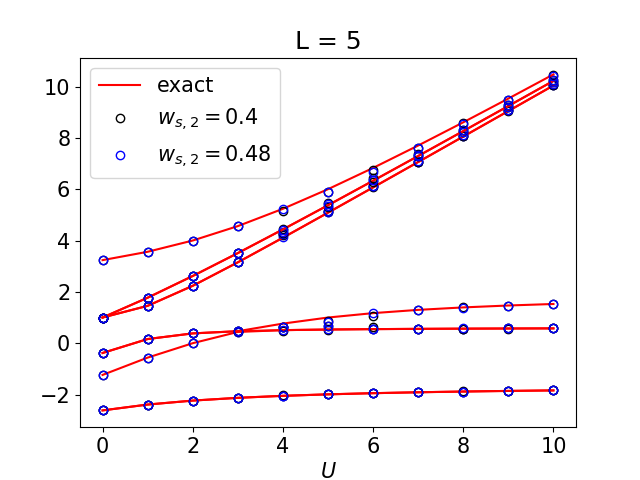
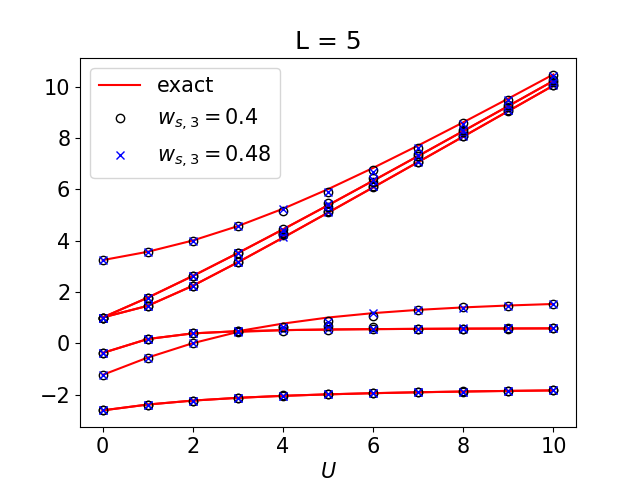
new figure

diff --git a/Figures/L=7/grafs2.py b/Figures/L=7/grafs2.py
@@ -58,12 +58,12 @@ list3[5] = list2[5]
 FI1 =[0,1,2,3,4,5, 6, 7, 8, 9,10]
 FI1 = np.array(FI1)
 
-print(list3)
 eigenor= np.zeros((11,nf))
 eigennumor = np.zeros((11,nf))
 eigennumor2 = np.zeros((11,nf))
 gap = np.zeros((11,nf-1))
 gapnum = np.zeros((11,nf-1))
+gapnum2 = np.zeros((11,nf-1))
 
 
 for u in range(11):
@@ -84,9 +84,11 @@ for u in range(11):
    for j in range(5):
       gap[u,j] = eigenor[u,j+1]-eigenor[u,1]
       gapnum[u,j] = eigennumor[u][j+1]-eigennumor[u][1]
+      gapnum2[u,j] = eigennumor[u][j+1]-eigennumor[u][0]
    for j in range(5,nf-1):
       gap[u,j] = eigenor[u,j+1]-eigenor[u,0]
       gapnum[u,j] = eigennumor[u][j+1]-eigennumor[u][0]
+      gapnum2[u,j] = eigennumor[u][j+1]-eigennumor[u][0]
  
 
 na = 20
@@ -105,6 +107,8 @@ for i in range(6,11):
    eigennumor2[i,19] = eigenor[i,19]
    eigennumor2[i,18] = eigenor[i,18]
 
+print(eigennumor[:,1])
+print(eigennumor2[:,1])
 
 plt.rc('axes', labelsize=15)
 plt.rc('font', size=15)  
@@ -125,9 +129,10 @@ plt.rc('font', size=15)
 for i in range(na-2):
    plt.plot(FI1, gap[:,i],'r-')
    plt.plot(FI1, gapnum[:,i],'ko',mfc='none') 
+   plt.plot(FI1, gapnum2[:,i],'bx',mfc='none') 
 plt.plot(FI1, gap[:,na-2],'r-', mfc='none',label='exact')
 plt.plot(FI1, gapnum[:,na-2],'ko',mfc='none', label='UCCSD')
-plt.plot(FI1, gapnum[:,na-2],'ko',mfc='none', label='UCCSD')
+plt.plot(FI1, gapnum2[:,na-2],'bx',mfc='none', label='UCCSD')
 plt.legend(prop={"size":15},loc='upper left')
 plt.xlabel("$U$")
 plt.title("L = 7")

diff --git a/Figures/dependency on w/grafs.py b/Figures/dependency on w/grafs.py
@@ -74,10 +74,10 @@ plt.rc('font', size=15)
 for i in range(nf-1):
    plt.plot(FI1, eigenor[:,i],'r-')
    plt.plot(FI1, eigennumor[:,i],'ko',mfc='none')
-   plt.plot(FI1, eigennumor1[:,i],'bo',mfc='none')
+   plt.plot(FI1, eigennumor1[:,i],'bx',mfc='none')
 plt.plot(FI1, eigenor[:,nf-1],'r-', mfc='none',label='exact')
 plt.plot(FI1, eigennumor[:,nf-1],'ko', mfc='none',label='$w_{s,3}=0.4$')
-plt.plot(FI1, eigennumor1[:,nf-1],'bo', mfc='none',label='$w_{s,3}=0.48$')
+plt.plot(FI1, eigennumor1[:,nf-1],'bx', mfc='none',label='$w_{s,3}=0.48$')
 plt.legend(prop={"size":15},loc='upper left')
 plt.xlabel("$U$")
 plt.title("L = 5")
